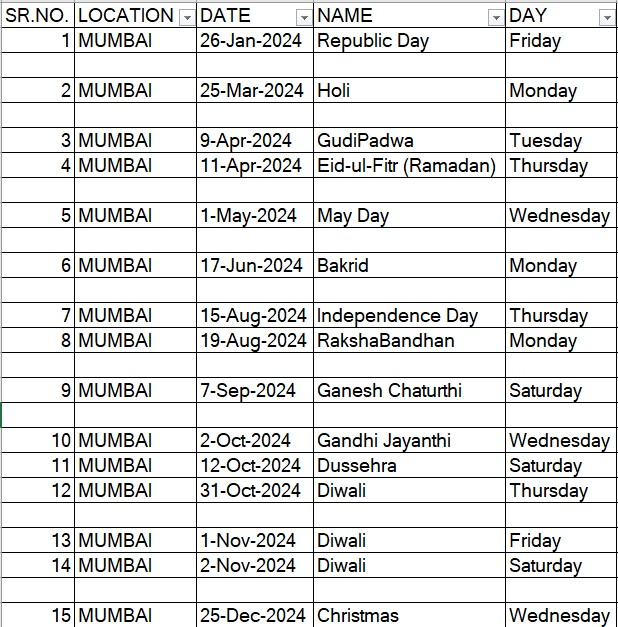
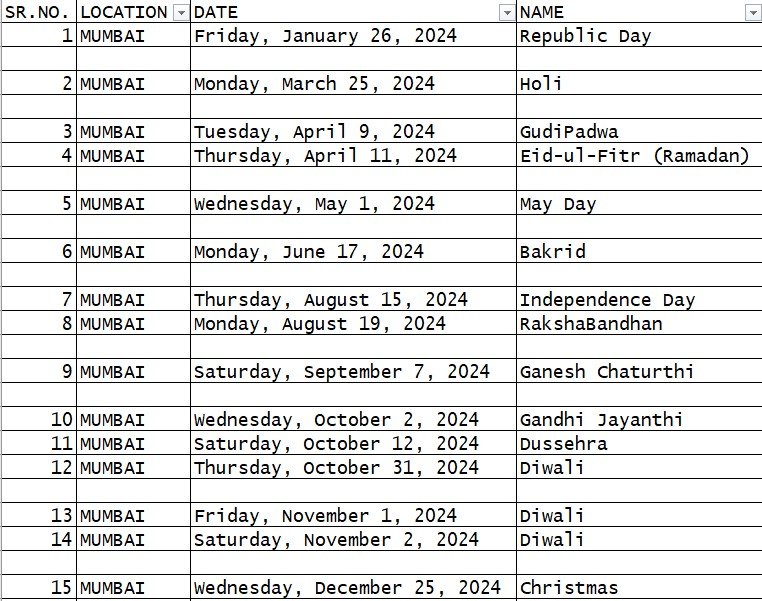
new format added

diff --git a/index.html b/index.html
@@ -1,27 +1,34 @@
 <!DOCTYPE html>
 <html lang="en">
-  <head>
-    <meta charset="UTF-8" />
-    <meta name="viewport" content="width=device-width, initial-scale=1.0" />
-    <link rel="preconnect" href="https://fonts.googleapis.com" />
-    <link rel="preconnect" href="https://fonts.gstatic.com" crossorigin />
-    <link
-      href="https://fonts.googleapis.com/css2?family=Poppins:ital,wght@0,100;0,200;0,300;0,400;0,500;0,600;0,700;0,800;0,900;1,100;1,200;1,300;1,400;1,500;1,600;1,700;1,800;1,900&display=swap"
-      rel="stylesheet"
-    />
-    <link rel="stylesheet" href="style.css" />
-    <title>SBS Mumbai Holiday List 2024</title>
-  </head>
 
-  <body>
-    <p>Suntech Business Solutions</p>
-    <br />
-    <p>Location : Mumbai</p>
-    <br />
-    <br />
-    <p>Holiday List 2024</p>
-    <br />
+<head>
+  <meta charset="UTF-8" />
+  <meta name="viewport" content="width=device-width, initial-scale=1.0" />
+  <link rel="preconnect" href="https://fonts.googleapis.com" />
+  <link rel="preconnect" href="https://fonts.gstatic.com" crossorigin />
+  <link
+    href="https://fonts.googleapis.com/css2?family=Poppins:ital,wght@0,100;0,200;0,300;0,400;0,500;0,600;0,700;0,800;0,900;1,100;1,200;1,300;1,400;1,500;1,600;1,700;1,800;1,900&display=swap"
+    rel="stylesheet" />
+  <link rel="stylesheet" href="style.css" />
+  <title>SBS Mumbai Holiday List 2024</title>
+</head>
 
-    <img src="mumbaiholidaylist2024.jpg" height="510" width="700" />
-  </body>
+<body>
+  <p><b><u>Suntech Business Solutions</u></b></p>
+  <br />
+  <p>Location : Mumbai</p>
+  <br />
+  <p>Year : 2024</p>
+  <br />
+  <table>
+    <tr>
+      <th><p>Holiday List</p></th>
+    </tr>
+    <tr>
+      <td><img src="mumbaiholidaylist2024.jpg" height="510" width="700" /></td>
+    </tr>
+  </table>
+
+</body>
+
 </html>
